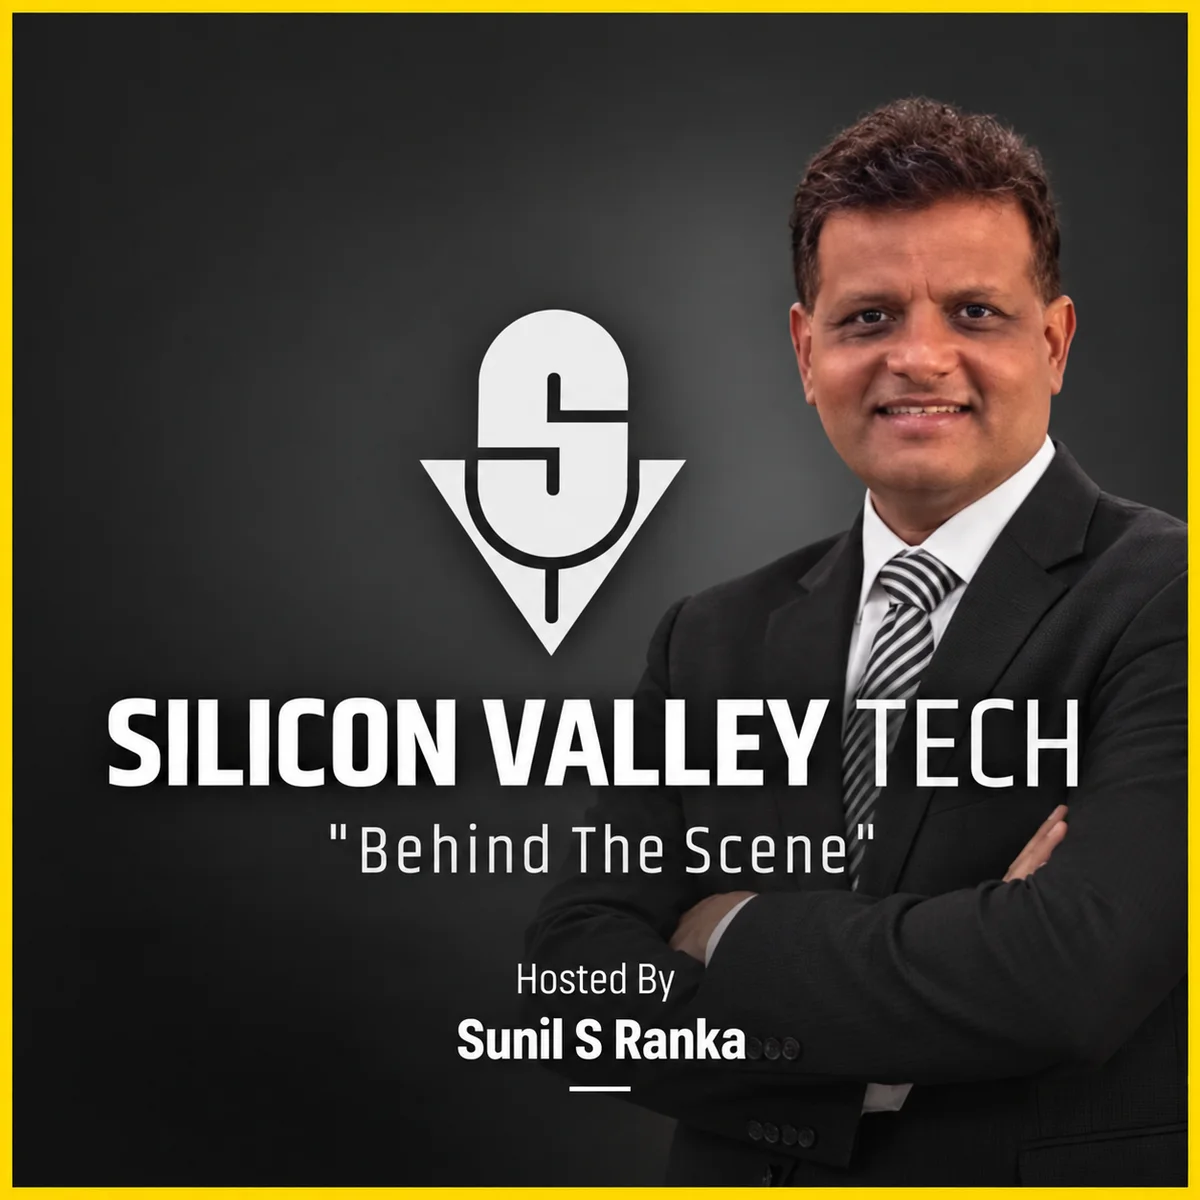
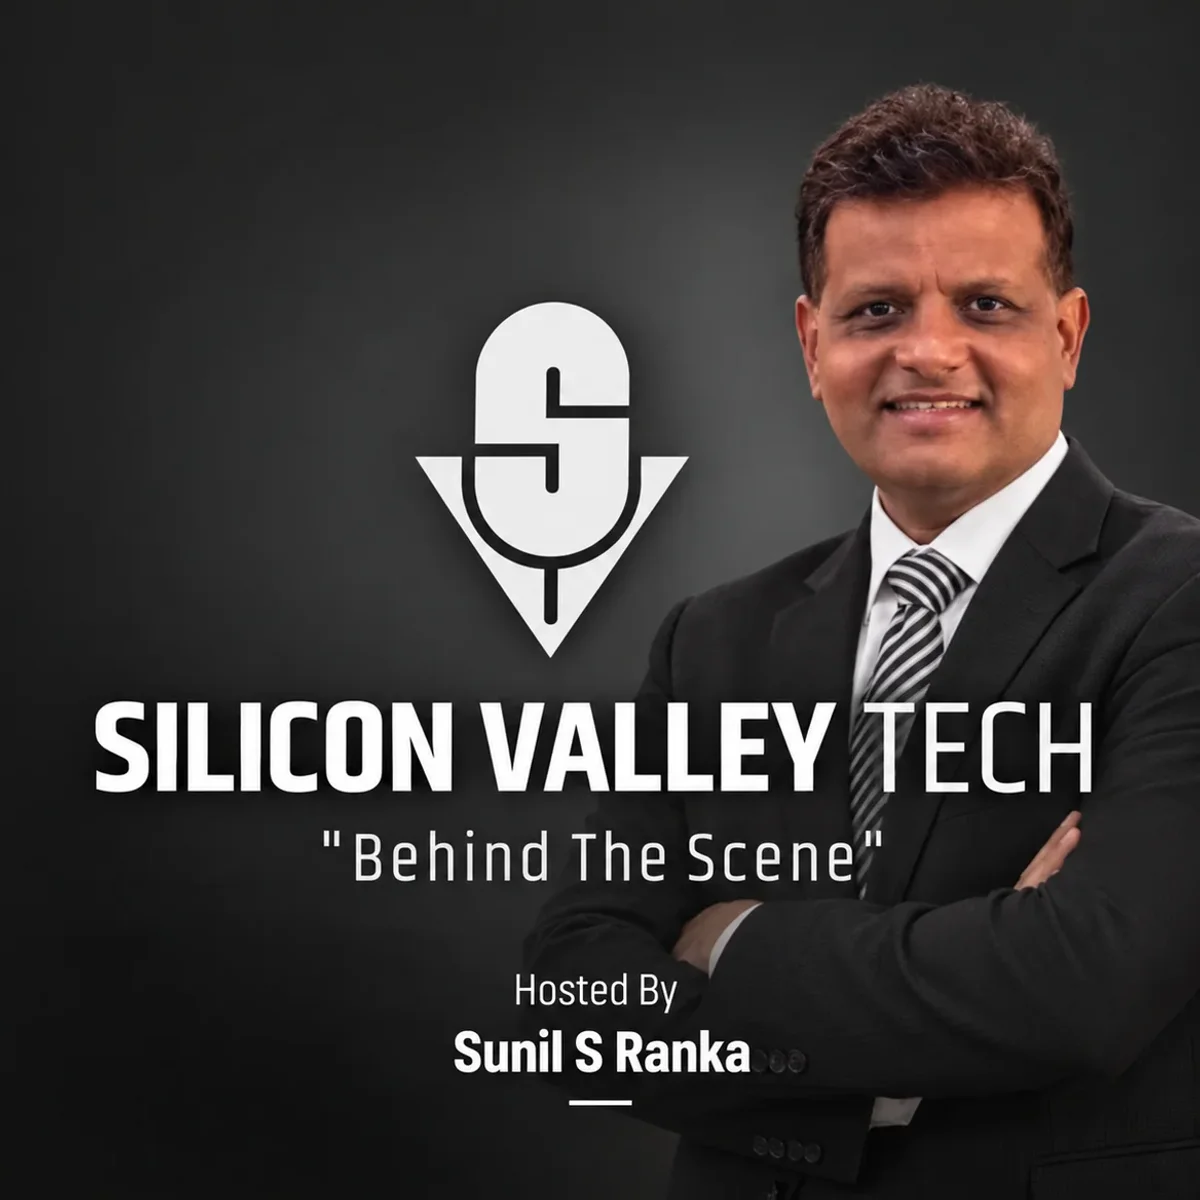
Sunil's photo as the show mark; tighter latest grid; artwork frames cropped; CTA without the image

diff --git a/src/styles/site.css b/src/styles/site.css
@@ -2158,7 +2158,7 @@ li:nth-child(5) > .platform-chip { animation-delay: -5.2s; }
   @apply grid items-center gap-10 lg:grid-cols-12 lg:gap-16;
 }
 .show-intro-art {
-  @apply mx-auto w-full max-w-[420px] lg:col-span-5 lg:justify-self-end;
+  @apply mx-auto w-full max-w-[360px] lg:col-span-5 lg:justify-self-end;
 }
 .show-intro-art img {
   @apply block aspect-square w-full object-cover;
@@ -2219,14 +2219,14 @@ li:nth-child(5) > .platform-chip { animation-delay: -5.2s; }
 
 /* Latest episodes: a real grid with room for each tile. */
 .latest-grid {
-  @apply grid gap-8 sm:grid-cols-2 lg:grid-cols-3 lg:gap-10;
+  @apply grid gap-6 sm:grid-cols-2 md:grid-cols-3 lg:grid-cols-4 lg:gap-7;
 }
 .latest-grid .episode-tile-title {
-  font-size: 1.125rem;
+  font-size: 1rem;
   line-height: 1.3;
 }
 .latest-grid .episode-tile-guest {
-  font-size: 0.9rem;
+  font-size: 0.85rem;
 }
 
 /* People: section labels and the guest grid. */
@@ -2243,6 +2243,13 @@ li:nth-child(5) > .platform-chip { animation-delay: -5.2s; }
 }
 .guest-grid {
   @apply grid grid-cols-2 gap-5 sm:grid-cols-3 lg:grid-cols-4 lg:gap-7;
+}
+
+/* The team's heading: a display title centred over the roster it names. It
+   was the small left-hand section label, which sat off on its own beside
+   tiles and names centred underneath it. */
+.team-heading {
+  @apply mx-auto mb-8 max-w-4xl text-center text-4xl leading-tight sm:text-5xl lg:mb-12;
 }
 
 /* Team roster: the pictured few as tiles, everyone else by name. */
@@ -2424,10 +2431,10 @@ li:nth-child(5) > .platform-chip { animation-delay: -5.2s; }
   @apply mt-7;
 }
 .cta-side {
-  @apply flex flex-col gap-8 lg:col-span-5 lg:items-end;
+  @apply flex flex-col justify-center lg:col-span-5;
 }
 .cta-stats {
-  @apply grid w-full grid-cols-3 gap-4;
+  @apply grid w-full grid-cols-3 gap-4 lg:gap-6;
 }
 .cta-stat {
   display: flex;
@@ -2443,7 +2450,4 @@ li:nth-child(5) > .platform-chip { animation-delay: -5.2s; }
 .cta-stat-label {
   @apply mt-2 text-xs font-bold tracking-wide uppercase;
   opacity: 0.8;
-}
-.cta-art {
-  @apply hidden w-40 rounded-3xl object-cover shadow-2xl lg:block;
 }
